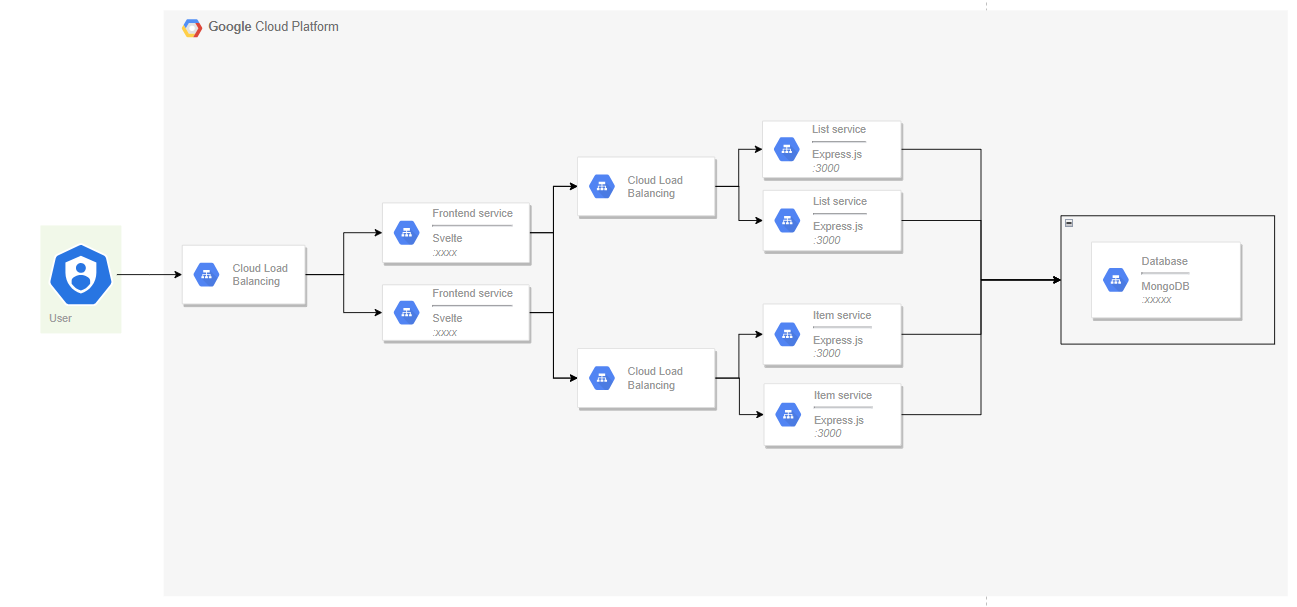
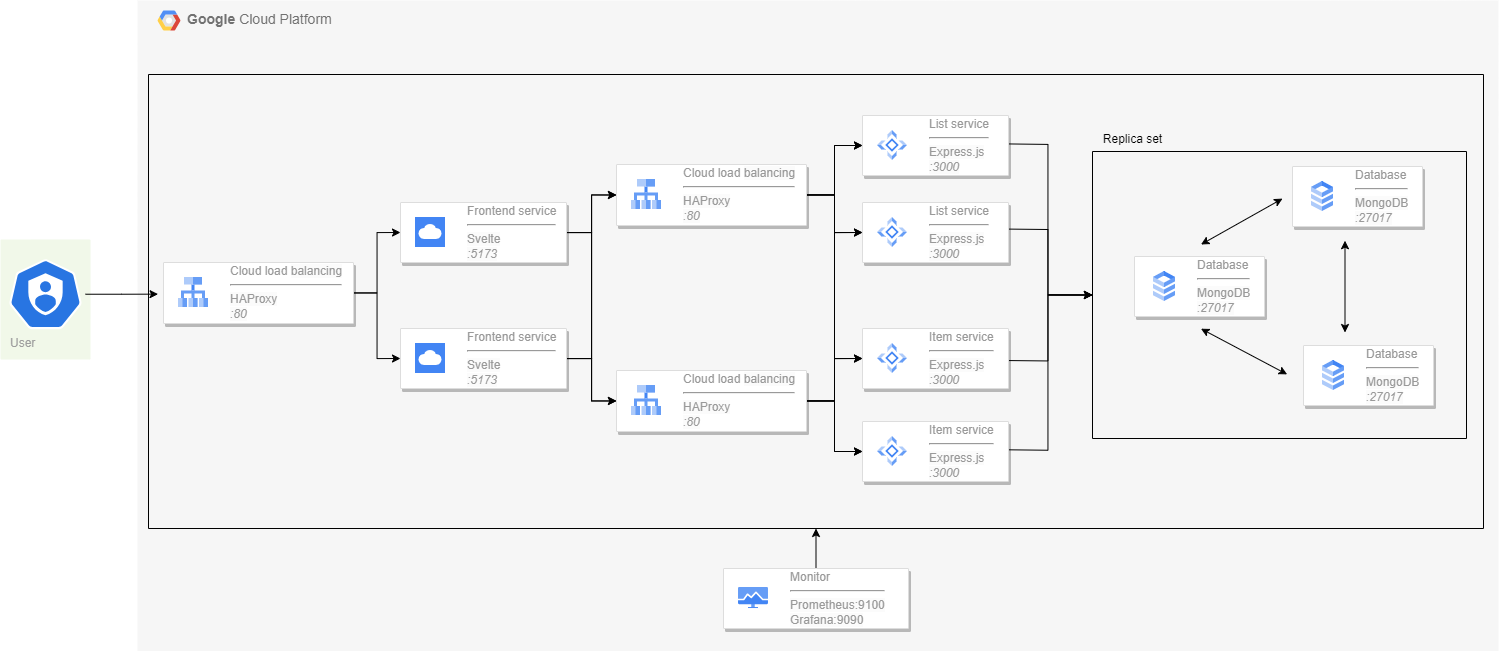
Updated architecture img

diff --git a/README.md b/README.md
@@ -21,14 +21,11 @@ Our application is a simple To-Do list, designed as a microservice-based contain
 
 1. **List service** - Handles adding/removing of items (Express.js)
 2. **Item service** - Manages checking/unchecking of items (Express.js)
-3. **Database service** - Backend service for storage and retrieval of To-Do list items (MongoDB).
-4. **Frontend service** - Visualization for our To-Do list connected to the Expressed API functions (Svelte).
+3. **Frontend service** - Visualization for our To-Do list connected to the Expressed API functions (Svelte).
 
 _Express.js_ is a REST API-based implementation which serves basic To-Do list functions as APIs. We have two Expressed services:
 1. **List service** - Adding/removing items to/from list
 2. **Item service** - Checking/unchecking an item
-
-_MongoDB_ serves as a backend service that handles the storage and retrieval of To-Do list items, provided to it via the Expressed APIs. 
 
 The frontend service is a frontend application designed in Svelte.js. It functions as the visualization for our To-Do list, and its functions add/remove items and check/uncheck items are served by the express.js services.
 
@@ -39,7 +36,6 @@ Here's a basic outline:
 
 1. **Frontend:** Developed in Svelte.js, providing a sleek, fast, and user-friendly interface.
 2. **Backend Services:** Consists of two Expressed services handling operations of our To-Do list.
-3. **Database:** MongoDB, responsible for persisting our list data.
 
 
 **Data flow:**
@@ -52,6 +48,8 @@ The complete architecture of this implementation is as follows:
 
 ![Architecture](./report/assets/architecture.png)
 WORKING: [DRAW.IO](https://drive.google.com/file/d/1YTpFg0gd-9eK2pGvSjLzb5hUPA-y5P1c/view?usp=share_link)
+- Usikker på portnr på HAProxy
+- Forklar replica set, 2 replicas
 
 We chose to build our cluster using GKE. 
 
@@ -100,6 +98,8 @@ Environment Setup:
 2. Navigate to the **Google Compute Engine** and enable its API.
 3. Create a Service Account 
    - Dashboard -> IAM and Administrator -> Service Account -> Mange Keys -> Create A New Key -> Export JSON
+
+
 
 ### Configuration
 1. Clone the project repository to your local machine.
